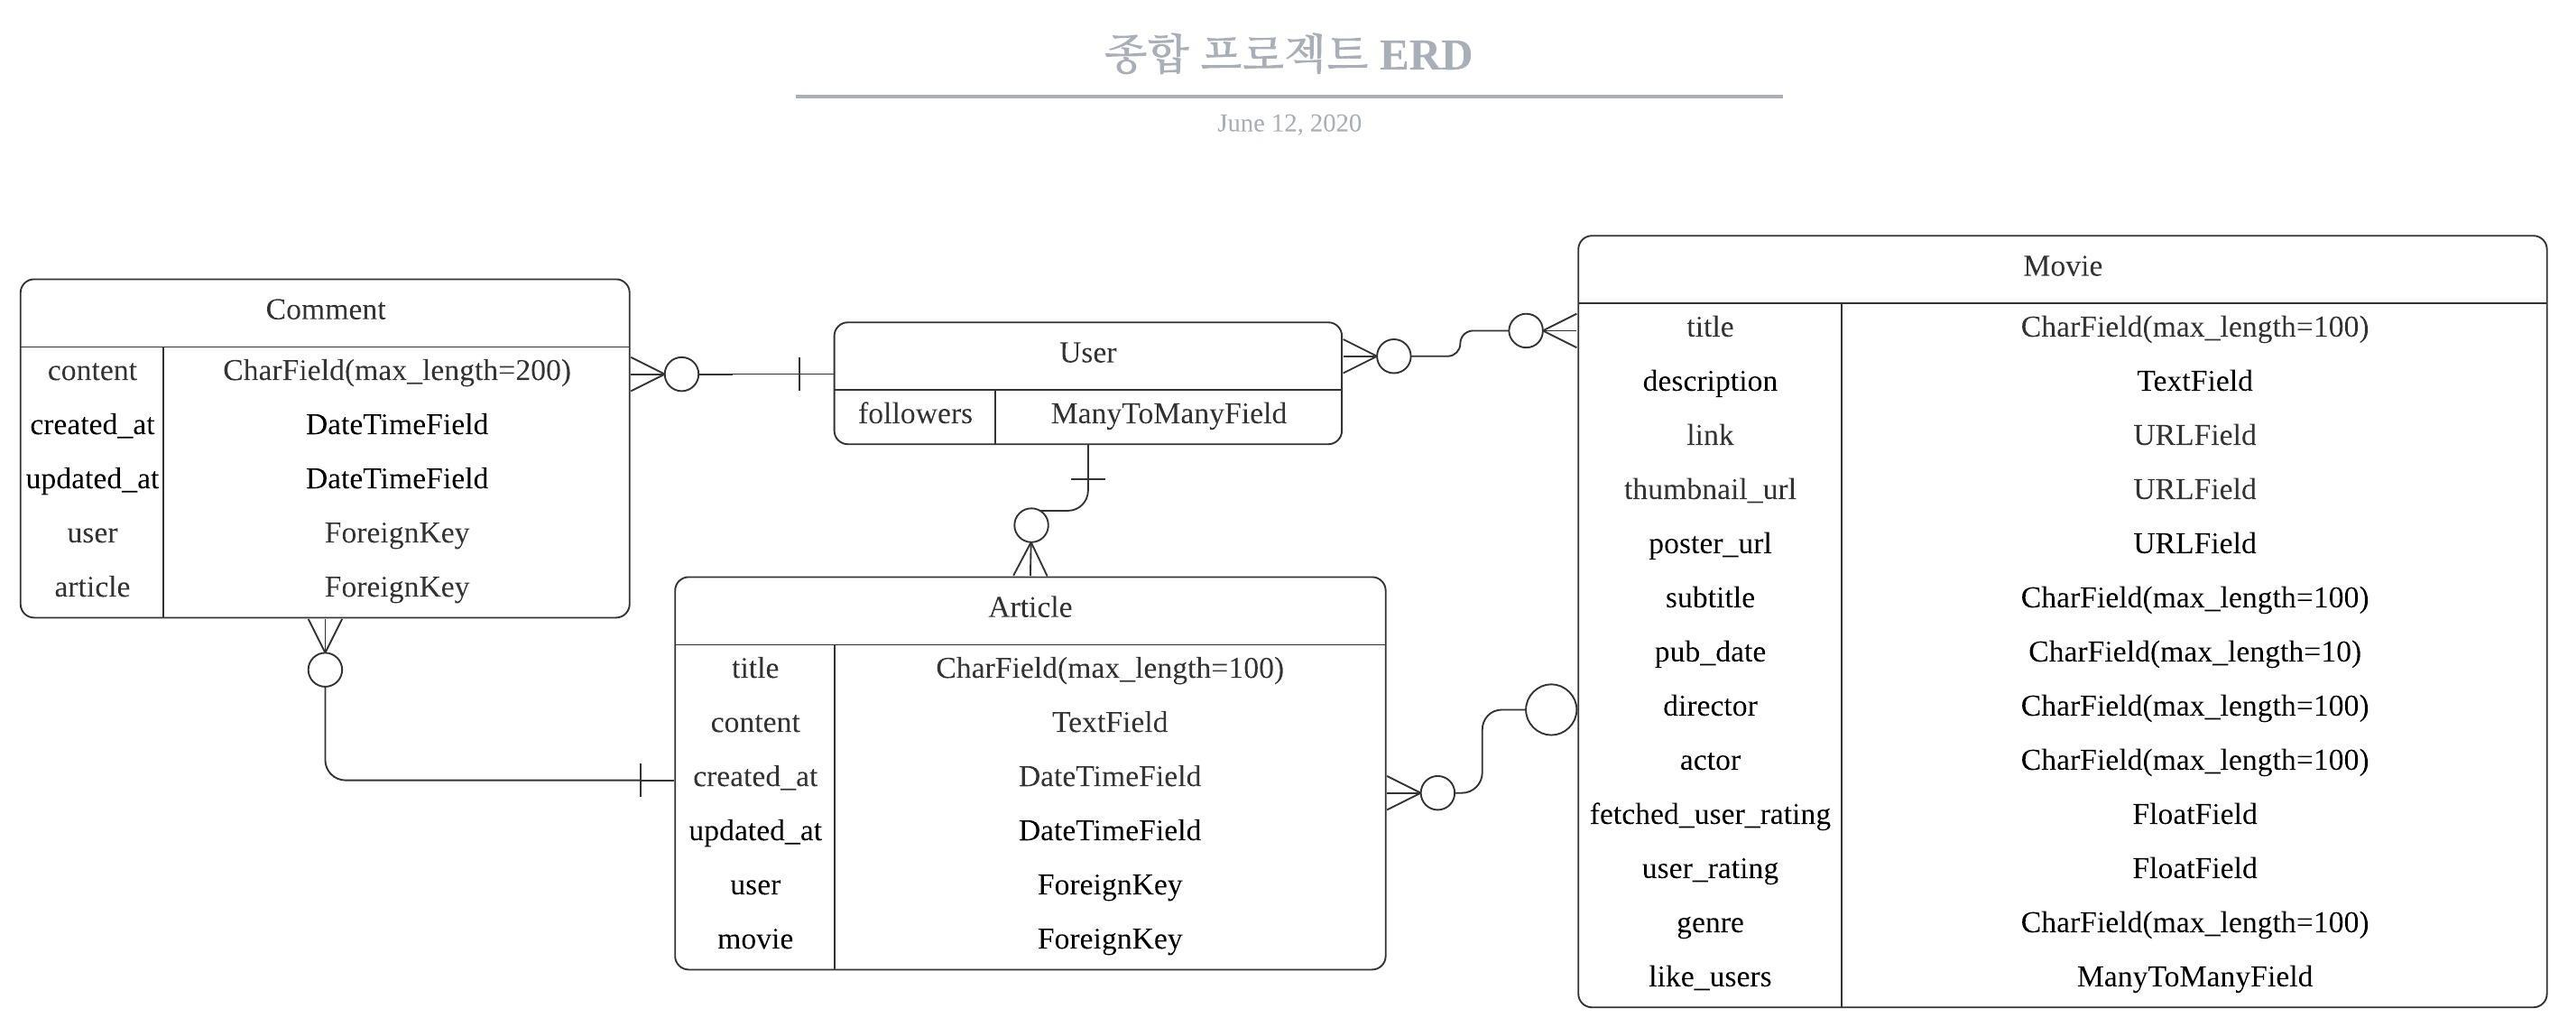
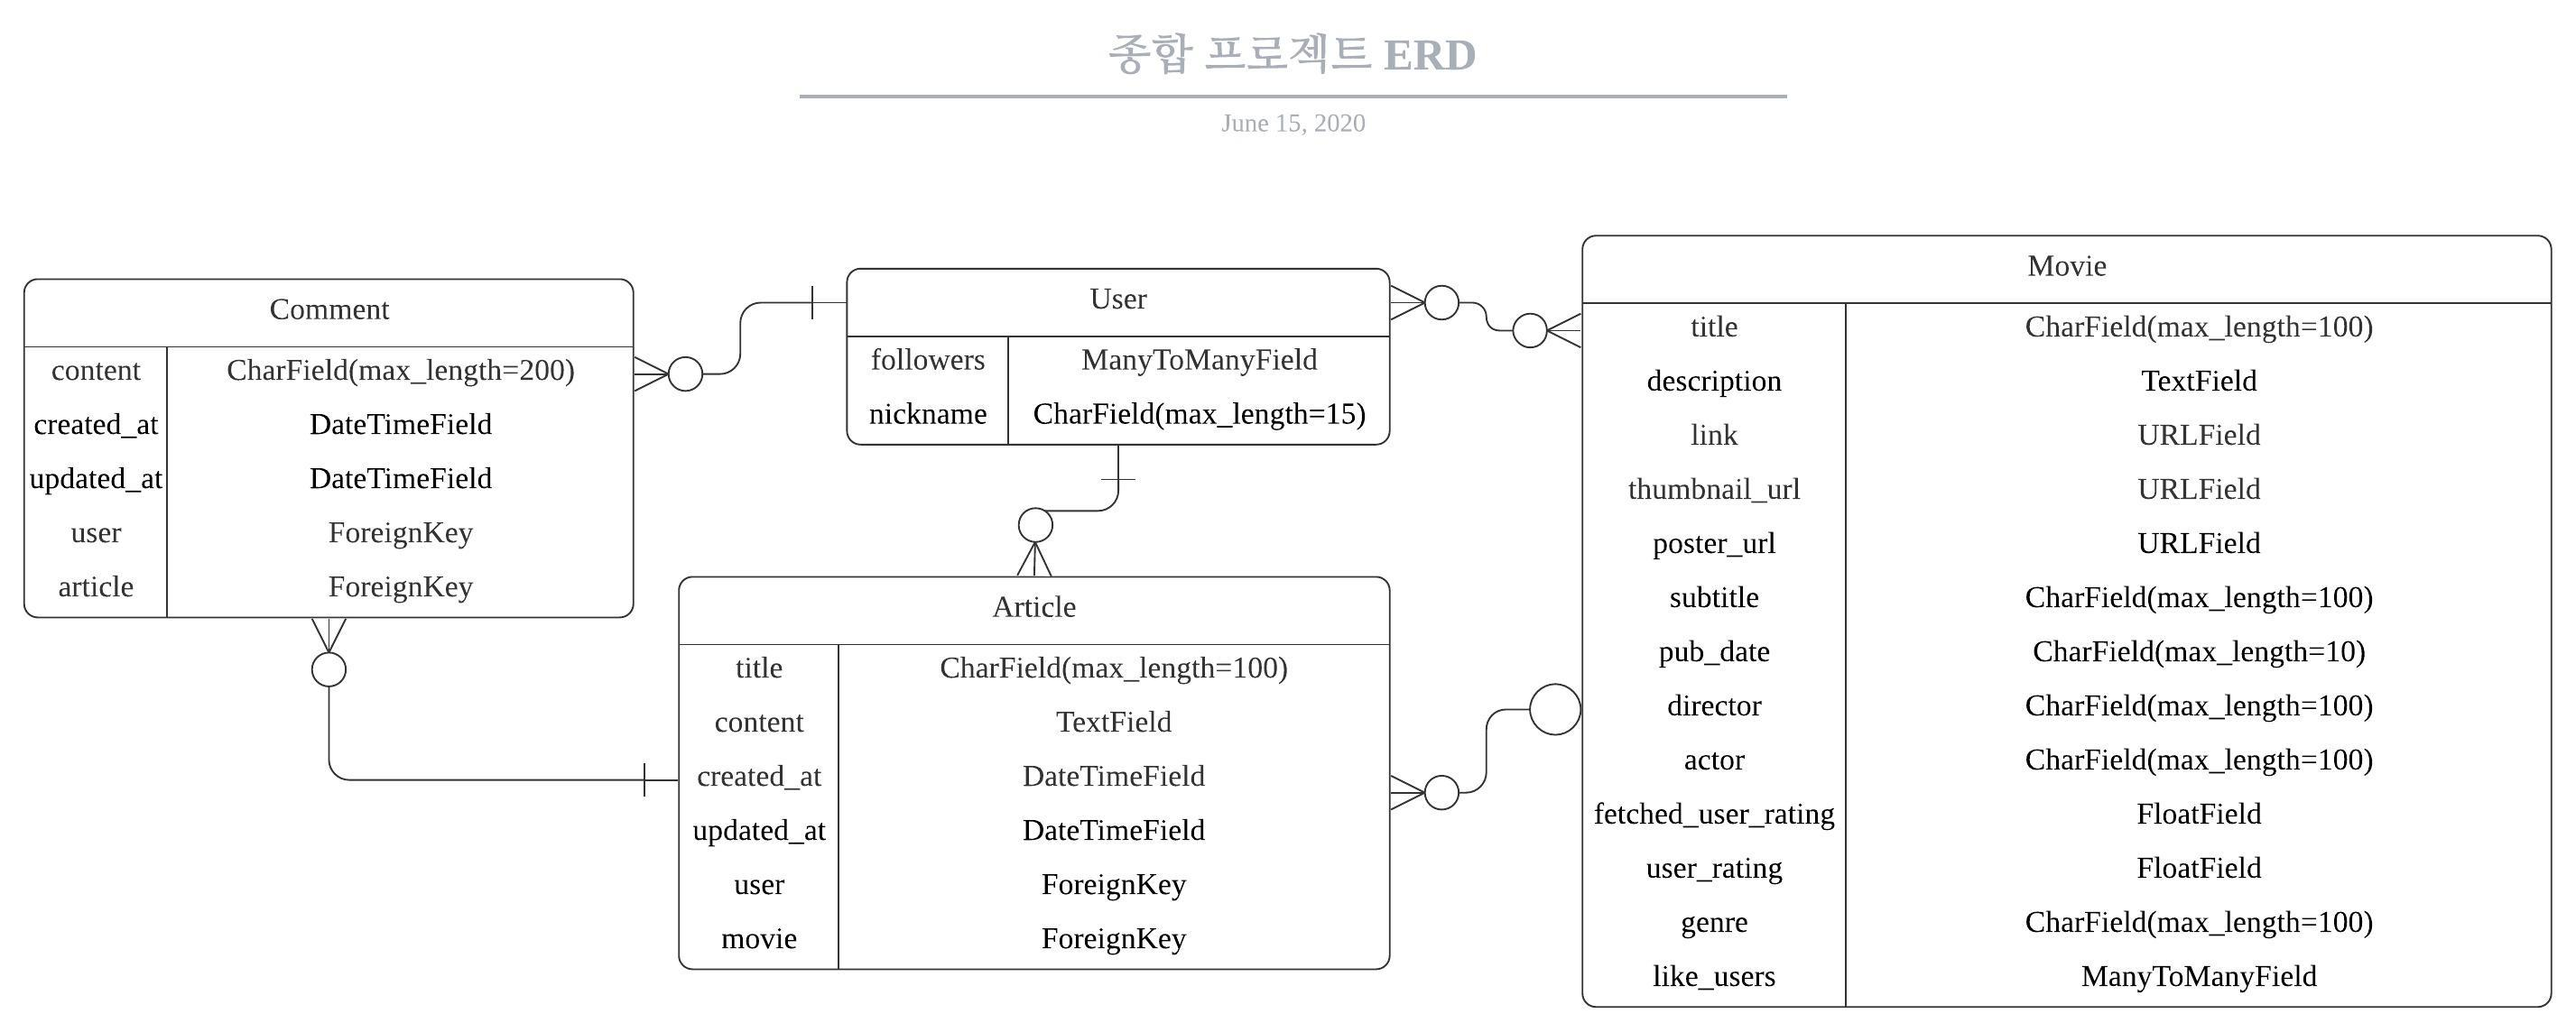
ERD revised

diff --git a/README.md b/README.md
@@ -55,5 +55,6 @@
 - 게시글은 User가 필수적으로 있어야하고, 한 유저가 많은 게시글을 쓸 수 있으므로 User와 Article이 1:N관계로 연결된다.
 - 댓글은 게시글이 필수적으로 있어야 하고, 한 게시글에 많은 댓글이 있을 수 있으므로 게시글과 댓글은 1:N관계로 연결된다.
 - 댓글은 유저도 필수적으로 있어야 하고 한 유저가 많은 댓글을 남길 수 있으므로 유저와 댓글은 1:N관계로 연결된다.
+- 유저의 필드는 기본적으로 django의 AbstractUser에서 받아오고, 임의로 추가해준 필드만 ERD상에 나타내었다.
 
 
